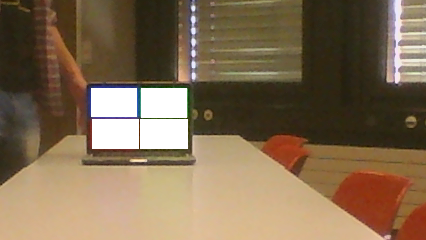
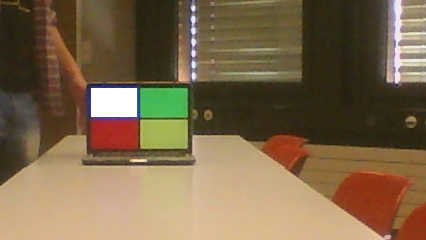
yeah

Changed region(s): [[0.2136, 0.35, 0.4577, 0.6417]]

diff --git a/file_name_image_decoding.py b/file_name_image_decoding.py
@@ -16,7 +16,9 @@ mask = (-1, -1)
 
 # Parameters
 n_tones = 2
-alphabetLength = 8
+
+n_colors = n_tones**3
+alphabetLength = n_colors
 paddingSize = 2
 
 green_index = 2
@@ -293,7 +295,7 @@ def decodeImage(images, alphabetLength):
     # turn array number into int value
     padding = arrayToNumber(padding)
 
-     # number of zeroes appended to the alphabet.
+    # number of zeroes appended to the alphabet.
     n_zeros = quadSize - ((alphabetLength + paddingSize) % quadSize)
 
     letterSequence = letterSequence[paddingSize + n_zeros:]
@@ -303,7 +305,7 @@ def decodeImage(images, alphabetLength):
 
     # remove ending screen (green)
     letterSequence = letterSequence[:endingIndex]
-   
+
     # remove padding sequence at the end (black)
     codedMessage = letterSequence[:-padding]
 

diff --git a/image_processing.py b/image_processing.py
@@ -42,10 +42,16 @@ def partitionTest(file_name, borders, num =0):
 
 # Images 
 
-file_path = 'starts/'
+#file_path = 'starts/'
+#extension = '.png'
+#start_seq = 17
+#end_seq = 17
+#images = []
+
+file_path = 'ultime3/pic'
 extension = '.png'
 start_seq = 1
-end_seq = 13
+end_seq = 113
 images = []
 
 for index in range(start_seq, end_seq + 1):
@@ -58,13 +64,13 @@ for index in range(start_seq, end_seq + 1):
 
 
 
-#decodedMesage = decodeImage(images, alphabetLength)
-#print(decodedMesage)
+decodedMesage = decodeImage(images, alphabetLength)
+print(decodedMesage)
 
 
 # # # Crop and Partition Tests
 
-
+images = []
 #testFile = 'night_test/lum5.png'
 itr = 1
 for testFile in images:

diff --git a/camera_decoding.py b/camera_decoding.py
@@ -82,7 +82,7 @@ def take_shots(capture_interval=1000, n_tons=2):
 
     while grand_final:
         for event in pygame.event.get():
-            if (event.type == KEYDOWN):
+            if (event.type == KEYDOWN and event.key == K_q):
                 grand_final = 0
     
     pygame.quit()
